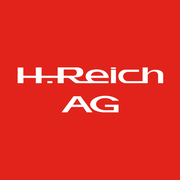
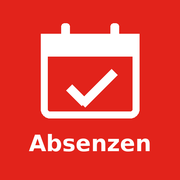
Neues App-Symbol (Kalender rot)

Changed region(s): [[0.0833, 0.1111, 0.9167, 0.6667], [0.1667, 0.7222, 0.8333, 0.8611]]

diff --git a/absenzen/index.html b/absenzen/index.html
@@ -7,9 +7,9 @@
 <meta name="theme-color" content="#e2231a">
 <meta name="apple-mobile-web-app-capable" content="yes">
 <meta name="apple-mobile-web-app-title" content="Absenzen">
-<link rel="apple-touch-icon" href="icon-180.png">
-<link rel="icon" type="image/png" href="icon-192.png">
-<link rel="manifest" href="manifest.webmanifest">
+<link rel="apple-touch-icon" href="icon-180.png?v=2">
+<link rel="icon" type="image/png" href="icon-192.png?v=2">
+<link rel="manifest" href="manifest.webmanifest?v=2">
 <link rel="stylesheet" href="https://fonts.googleapis.com/css2?family=Barlow+Condensed:wght@600;700&family=Barlow:wght@400;500;600&display=swap">
 <style>
 :root{
